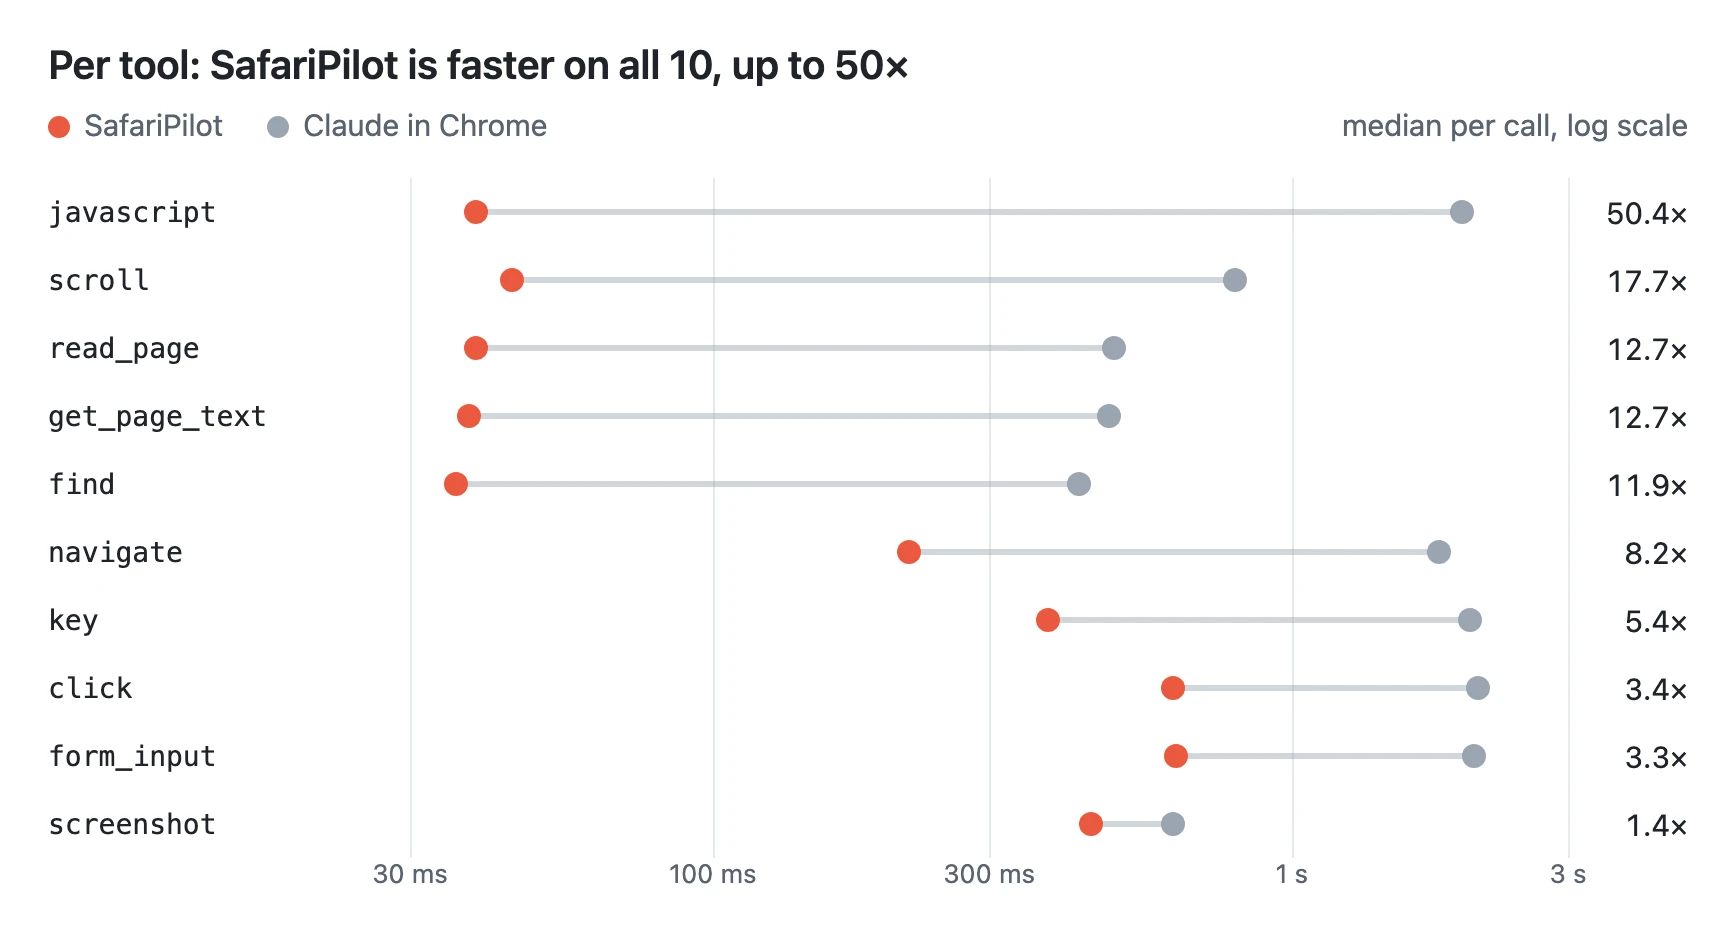
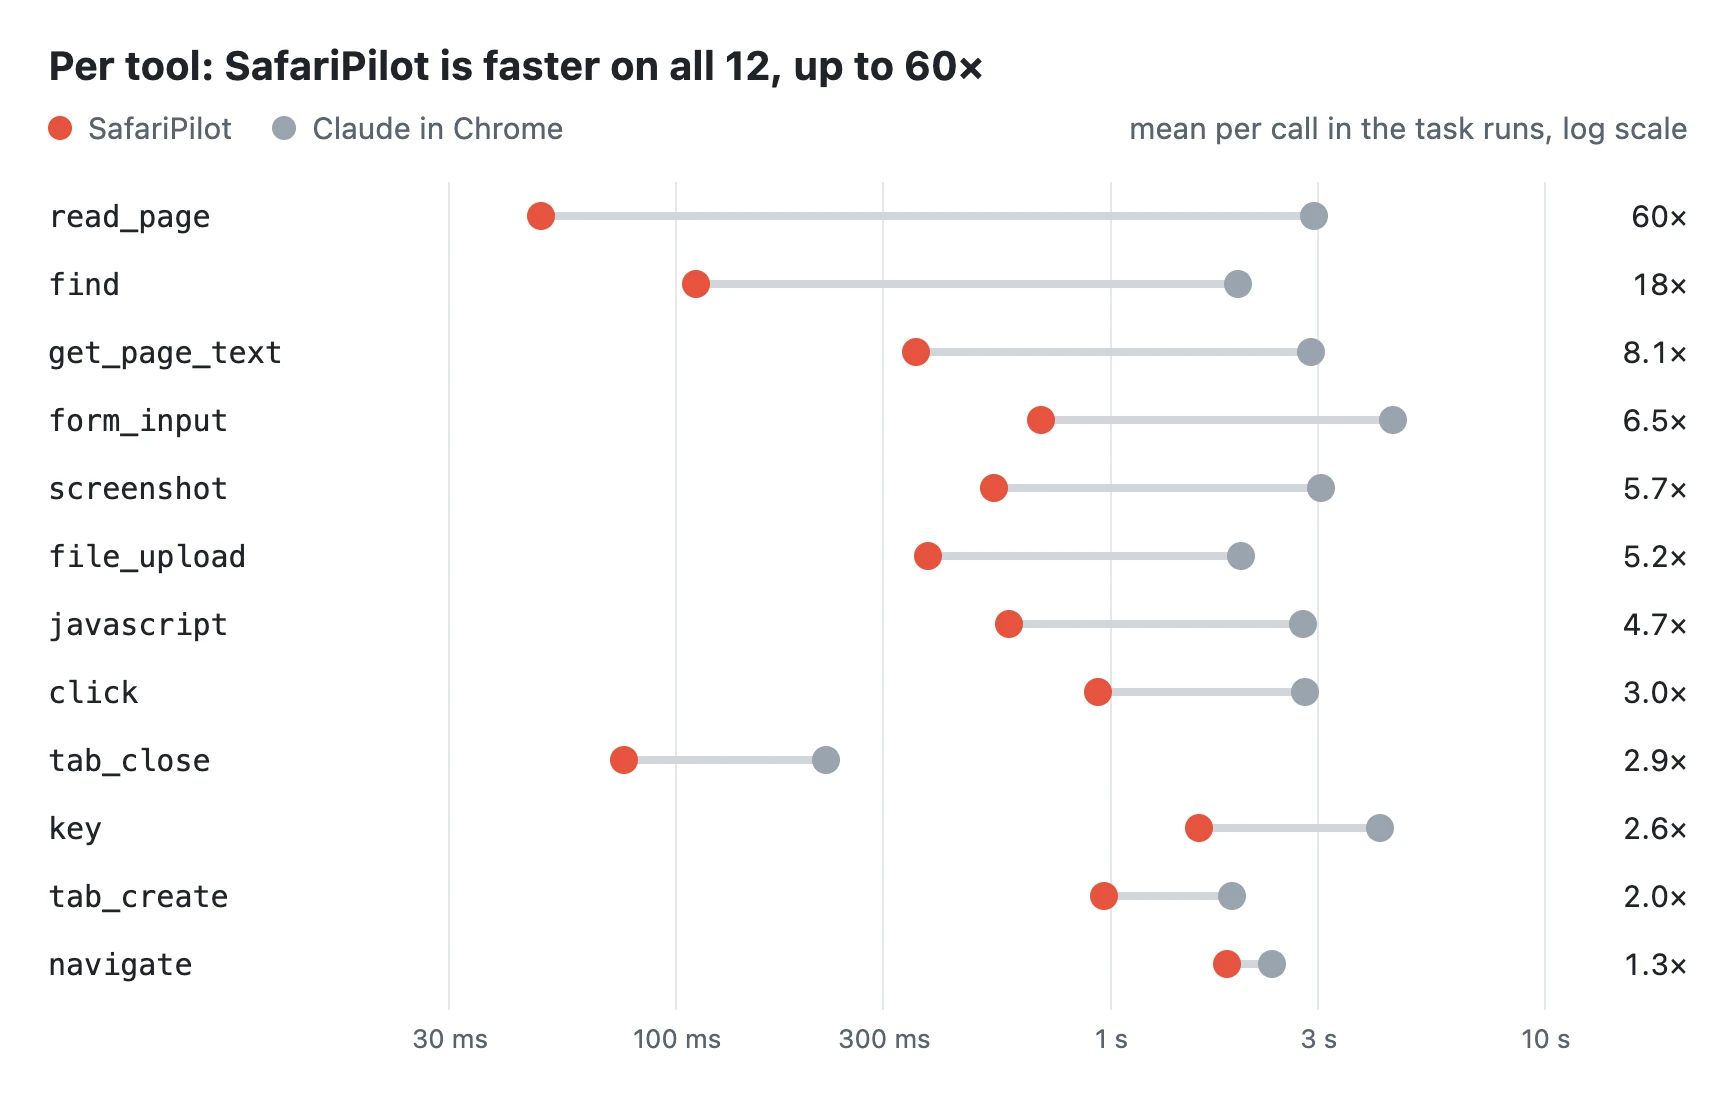
Benchmark 22 tasks across public sites in the README, with token and per-tool charts

diff --git a/README.md b/README.md
@@ -114,11 +114,17 @@ In SafariPilot's window, **General > Status** shows Accessibility, the Safari ex
 
 ## Benchmark
 
-SafariPilot against Claude in Chrome, both driven by Claude Code (Sonnet) with the same prompts. Each ran 11 tasks 5 times, and all 110 runs passed. SafariPilot took 601 s in total to Chrome's 1,304 s, and used 36% fewer input tokens. [scripts/compare](scripts/compare) runs it.
+Claude Code (Sonnet 5.5) drove both browsers with the same prompts and no other tools. Of the 22 tasks, 15 run on public sites such as YouTube, DoorDash, the Apple Store and a PDF on irs.gov; the other 7 use local test pages. Each task ran 3 to 5 times per browser, and all 176 runs passed.
 
-<picture><source media="(prefers-color-scheme: dark)" srcset="docs/benchmark/tools-dark.webp"><img src="docs/benchmark/tools-light.webp" alt="Median time per tool call, SafariPilot against Claude in Chrome"></picture>
+SafariPilot finished in under half the time, 1,176 s against Chrome's 2,471 s, with 32% fewer input tokens and 46% fewer output tokens. [scripts/compare](scripts/compare) runs the tasks and draws the charts.
 
 <picture><source media="(prefers-color-scheme: dark)" srcset="docs/benchmark/tasks-dark.webp"><img src="docs/benchmark/tasks-light.webp" alt="Median time per task, SafariPilot against Claude in Chrome"></picture>
+
+<picture><source media="(prefers-color-scheme: dark)" srcset="docs/benchmark/tokens-dark.webp"><img src="docs/benchmark/tokens-light.webp" alt="Median input tokens per task, SafariPilot against Claude in Chrome"></picture>
+
+Tool times are the mean of every call in those runs. Claude in Chrome does its clicks, typing, scrolling and screenshots through one computer tool, so each of those calls counts under the SafariPilot tool that does the same job.
+
+<picture><source media="(prefers-color-scheme: dark)" srcset="docs/benchmark/tools-dark.webp"><img src="docs/benchmark/tools-light.webp" alt="Mean time per tool call, SafariPilot against Claude in Chrome"></picture>
 
 ## Why SafariPilot
 
